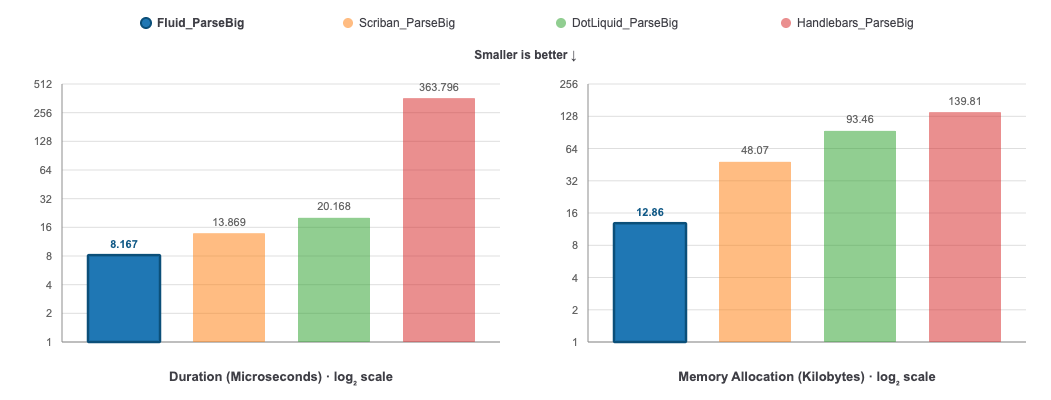
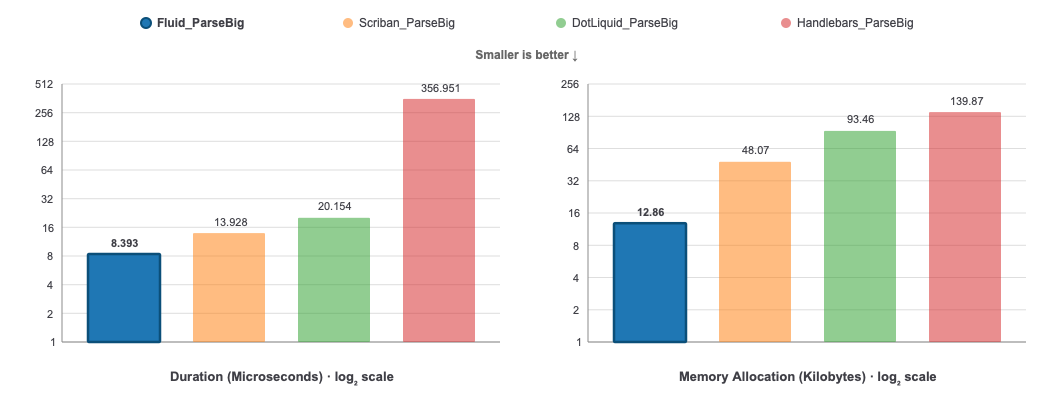
Update benchmark results (#986)
Copilot-Session: c49968eb-8f44-48d7-aa60-da236bf6f685

diff --git a/README.md b/README.md
@@ -1730,18 +1730,18 @@ Scriban takes 46% longer to parse and allocates over 3 times as much memory as F
 
 **ParseBig: Parses a Blog Post template**
 
-Scriban takes 70% longer to parse and allocates almost 4 times as much memory as Fluid.
+Scriban takes 66% longer to parse and allocates almost 4 times as much memory as Fluid.
 
 ![Large template parse benchmark comparison](Assets/benchmark-parse-big.png)
 
 **Render: Renders a simple HTML template containing filters and properties, with 100 elements**
 
 DotLiquid takes over 10 times as long to render and allocates 18 times as much memory as Fluid.
-The second best, Handlebars (Mustache), takes 28% longer and allocates over 3 times as much memory.
+The second best, Handlebars (Mustache), takes 33% longer and allocates over 3 times as much memory.
 
 ![Render benchmark comparison](Assets/benchmark-render.png)
 
-Tested on 8/17/2026 with
+Tested on 8/18/2026 with
 - Parlot 1.5.8
 - Scriban 7.2.6
 - DotLiquid 2.3.197
@@ -1756,30 +1756,30 @@ Tested on 8/17/2026 with
 ``` text
 BenchmarkDotNet v0.15.8, macOS Sequoia 15.7.9 (24G830) [Darwin 24.6.0]
 Apple M4 Pro, 1 CPU, 14 logical and 14 physical cores
-.NET SDK 10.0.302
-  [Host]   : .NET 10.0.10 (10.0.10, 10.0.1026.32716), Arm64 RyuJIT armv8.0-a
-  ShortRun : .NET 10.0.10 (10.0.10, 10.0.1026.32716), Arm64 RyuJIT armv8.0-a
+.NET SDK 10.0.400
+  [Host]   : .NET 10.0.11 (10.0.11, 10.0.1126.37416), Arm64 RyuJIT armv8.0-a
+  ShortRun : .NET 10.0.11 (10.0.11, 10.0.1126.37416), Arm64 RyuJIT armv8.0-a
 
 Job=ShortRun  IterationCount=3  LaunchCount=1
 WarmupCount=3
 
 | Method                       | Mean       | Error         | StdDev     | Ratio | RatioSD | Gen0    | Gen1    | Allocated | Alloc Ratio |
 |----------------------------- |-----------:|--------------:|-----------:|------:|--------:|--------:|--------:|----------:|------------:|
-| Fluid_Parse                  |   1.737 us |     0.1787 us |  0.0098 us |  1.00 |    0.01 |  0.3910 |  0.0019 |    3.2 KB |        1.00 |
-| Scriban_Parse                |   2.537 us |     0.1974 us |  0.0108 us |  1.46 |    0.01 |  1.2245 |  0.0648 |  10.01 KB |        3.13 |
-| DotLiquid_Parse              |   4.137 us |     0.4264 us |  0.0234 us |  2.38 |    0.02 |  1.9608 |  0.0229 |  16.05 KB |        5.02 |
-| Handlebars_Parse             | 480.774 us |   715.4418 us | 39.2158 us | 276.85 |   19.60 | 15.6250 |  7.8125 | 133.13 KB |       41.66 |
+| Fluid_Parse                  |   1.685 us |     0.1182 us |  0.0065 us |  1.00 |    0.00 |  0.3910 |  0.0019 |    3.2 KB |        1.00 |
+| Scriban_Parse                |   2.464 us |     0.2919 us |  0.0160 us |  1.46 |    0.01 |  1.2245 |  0.0648 |  10.01 KB |        3.13 |
+| DotLiquid_Parse              |   4.054 us |     0.3527 us |  0.0193 us |  2.41 |    0.01 |  1.9608 |  0.0229 |  16.05 KB |        5.02 |
+| Handlebars_Parse             | 452.116 us |   433.5420 us | 23.7639 us | 268.40 |   12.25 | 15.6250 |  7.8125 | 133.62 KB |       41.82 |
 |                              |            |               |            |       |         |         |         |           |             |
-| Fluid_ParseBig               |   8.167 us |     0.8403 us |  0.0461 us |  1.00 |    0.01 |  1.5717 |  0.0458 |  12.86 KB |        1.00 |
-| Scriban_ParseBig             |  13.869 us |     1.2358 us |  0.0677 us |  1.70 |    0.01 |  5.8746 |  1.1749 |  48.07 KB |        3.74 |
-| DotLiquid_ParseBig           |  20.168 us |     0.6354 us |  0.0348 us |  2.47 |    0.01 | 11.4136 |  0.5188 |  93.46 KB |        7.27 |
-| Handlebars_ParseBig          | 363.796 us |   647.1650 us | 35.4733 us | 44.55 |    3.77 | 16.6016 |  7.8125 | 139.81 KB |       10.87 |
+| Fluid_ParseBig               |   8.393 us |     0.5638 us |  0.0309 us |  1.00 |    0.00 |  1.5717 |  0.0458 |  12.86 KB |        1.00 |
+| Scriban_ParseBig             |  13.928 us |     1.0365 us |  0.0568 us |  1.66 |    0.01 |  5.8746 |  1.1749 |  48.07 KB |        3.74 |
+| DotLiquid_ParseBig           |  20.154 us |     2.4570 us |  0.1347 us |  2.40 |    0.02 | 11.4136 |  0.5188 |  93.46 KB |        7.27 |
+| Handlebars_ParseBig          | 356.951 us | 1,331.1202 us | 72.9632 us | 42.53 |    7.53 | 16.6016 |  7.8125 | 139.87 KB |       10.88 |
 |                              |            |               |            |       |         |         |         |           |             |
-| Fluid_Render                 |  16.830 us |     2.9562 us |  0.1620 us |  1.00 |    0.01 |  4.3945 |  0.0305 |   36.2 KB |        1.00 |
-| Fluid_SourceGenerated_Render |  29.627 us |     8.5755 us |  0.4700 us |  1.76 |    0.03 |  5.8594 |  0.0610 |  47.92 KB |        1.32 |
-| Scriban_Render               | 134.138 us |    52.3051 us |  2.8670 us |  7.97 |    0.16 | 42.9688 |  7.8125 | 358.15 KB |        9.89 |
-| DotLiquid_Render             | 170.605 us |     3.9494 us |  0.2165 us | 10.14 |    0.08 | 80.5664 | 15.3809 | 659.18 KB |       18.21 |
-| Handlebars_Render            |  21.572 us |     3.7382 us |  0.2049 us |  1.28 |    0.01 | 14.5874 |       - | 119.31 KB |        3.30 |
+| Fluid_Render                 |  16.426 us |     1.5309 us |  0.0839 us |  1.00 |    0.01 |  4.4250 |  0.0610 |  36.26 KB |        1.00 |
+| Fluid_SourceGenerated_Render |  30.694 us |     6.0248 us |  0.3302 us |  1.87 |    0.02 |  5.8594 |  0.0610 |  47.98 KB |        1.32 |
+| Scriban_Render               | 127.750 us |     7.0525 us |  0.3866 us |  7.78 |    0.04 | 43.7012 |  8.0566 | 358.12 KB |        9.88 |
+| DotLiquid_Render             | 166.841 us |     6.6613 us |  0.3651 us | 10.16 |    0.05 | 80.5664 | 15.3809 | 659.18 KB |       18.18 |
+| Handlebars_Render            |  21.926 us |     1.8049 us |  0.0989 us |  1.33 |    0.01 | 14.5874 |       - | 119.31 KB |        3.29 |
 ```
 
 </details>
